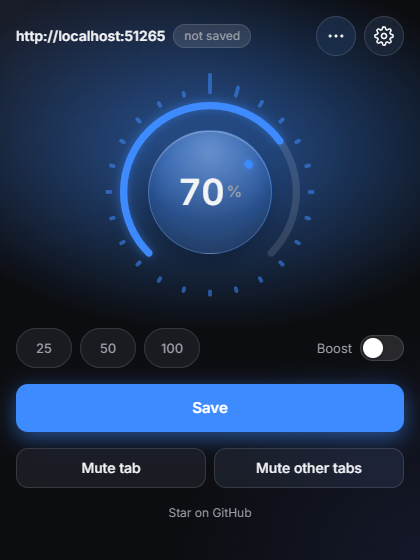
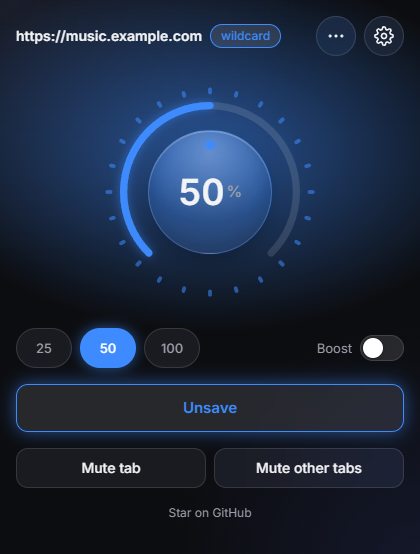
Web Store upload kit in webstore/
listing.md holds every field to paste, images/ the five screenshots, two promo tiles and the icon, and npm run store rebuilds the zip and images. Screenshots now show a realistic origin and the new Save and Unsave states.

diff --git a/README.md b/README.md
@@ -40,8 +40,8 @@ npm run dev           # rebuild on change
 npm run typecheck     # tsc --noEmit
 npm test              # build, then Playwright (Chromium)
 npm run icons         # regenerate toolbar PNGs from public/icons/icon.svg
-npm run store-images  # render store/*.png (1280x800) from screenshots/
-npm run zip           # build, then release/volume-lock-<version>.zip
+npm run store         # zip + screenshots + store images into webstore/
+npm run zip           # build, then webstore/volume-lock-<version>.zip
 ```
 
 ## Permissions
@@ -91,10 +91,9 @@ src/
   offscreen/    capture and analysis document
 public/         manifest.json, icons
 scripts/        icon generation and store images
-store/          Chrome Web Store images (generated)
+webstore/       Web Store upload kit: listing.md, images/, zip
 tests/          Playwright specs and fixtures
 dist/           build output (generated)
-release/        store zip (generated by npm run zip)
 ```
 
 ## License
